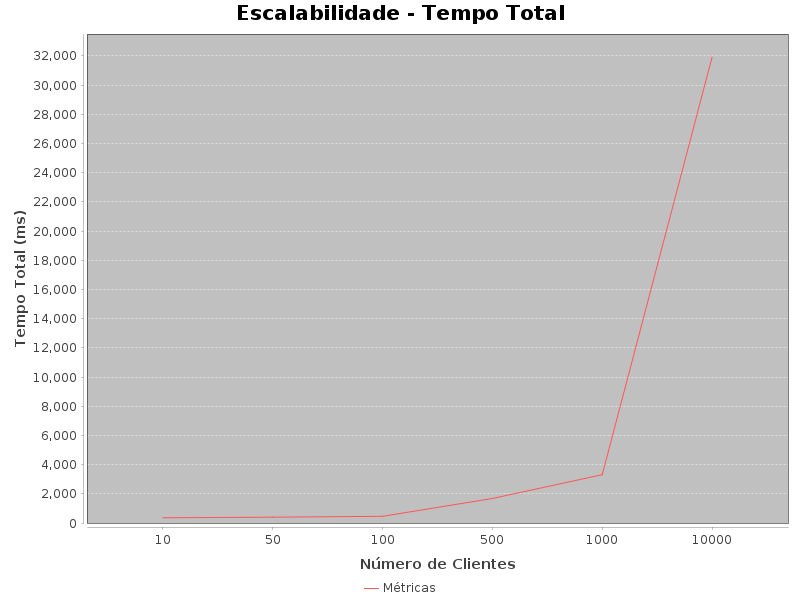
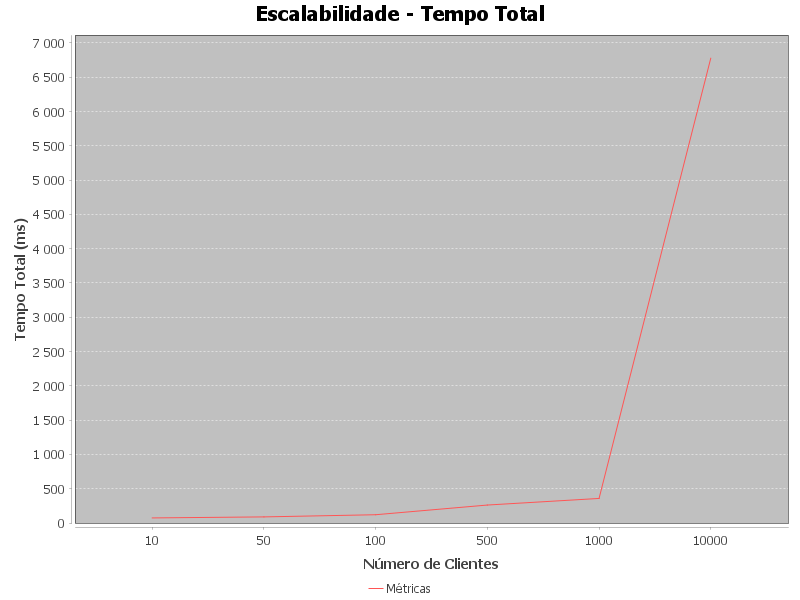
thread pool problems fixed, rejection policy working

diff --git a/src/main/java/server/Server.java b/src/main/java/server/Server.java
@@ -29,11 +29,12 @@ public class Server {
                     MAX_CLIENTS,                                // Core pool size (reusable threads)
                     (int) (MAX_CLIENTS+(MAX_CLIENTS*0.5)),      // Maximum pool size (core size + extra)
                     5L, TimeUnit.SECONDS,         // Keep-alive time for idle threads
-                    new LinkedBlockingQueue<>(),                // Unbounded task queue
+                    new SynchronousQueue<>(),               // basically a queue with capacity 0, direct to rejetction
                     Executors.defaultThreadFactory(),           // Default thread factory
-                    new ThreadPoolExecutor.AbortPolicy() {      // Custom rejection policy
+                    new RejectedExecutionHandler() {             // Custom rejection policy
                         @Override
                         public void rejectedExecution(Runnable r, ThreadPoolExecutor executor) {
+                            // Handle the rejected task
                             new Thread(r).start();
                         }
                     }
@@ -44,11 +45,12 @@ public class Server {
                     MAX_CLIENTS * 2,                          // Core pool size
                     MAX_CLIENTS * 4,                          // Maximum pool size
                     5L, TimeUnit.SECONDS,       // Keep-alive time for extra threads
-                    new LinkedBlockingQueue<>(),              // Bounded queue for commands
+                    new SynchronousQueue<>(),            // basically a queue with capacity 0, direct to rejetction
                     Executors.defaultThreadFactory(),         // Default thread factory
-                    new ThreadPoolExecutor.AbortPolicy() {    // Custom rejection policy for commands
+                    new RejectedExecutionHandler() {
                         @Override
                         public void rejectedExecution(Runnable r, ThreadPoolExecutor executor) {
+                            // Handle the rejected task
                             new Thread(r).start();
                         }
                     }
@@ -70,36 +72,39 @@ public class Server {
             users = new UserManager(maxClients);
             data = new DataManager();
             serverSocket = new ServerSocket(PORT);
-    
-    
+
+
             clientThreadPool = new ThreadPoolExecutor(
-                    maxClients*2,
-                    (int) (maxClients*2),
+                    maxClients * 2,
+                    maxClients * 2,
                     5L, TimeUnit.SECONDS,
-                    new LinkedBlockingQueue<>(),
+                    new SynchronousQueue<>(),
                     Executors.defaultThreadFactory(),
-                    new ThreadPoolExecutor.AbortPolicy() {
+                    new RejectedExecutionHandler() {
                         @Override
                         public void rejectedExecution(Runnable r, ThreadPoolExecutor executor) {
+                            // Handle the rejected task
                             new Thread(r).start();
                         }
                     }
             );
-    
+
             commandThreadPool = new ThreadPoolExecutor(
                     maxClients * 2,
                     maxClients * 4,
                     5L, TimeUnit.SECONDS,
-                    new LinkedBlockingQueue<>(),
+                    new SynchronousQueue<>(),
                     Executors.defaultThreadFactory(),
-                    new ThreadPoolExecutor.AbortPolicy() {
+                    new RejectedExecutionHandler() {
                         @Override
                         public void rejectedExecution(Runnable r, ThreadPoolExecutor executor) {
+                            // Handle the rejected task
                             new Thread(r).start();
                         }
                     }
             );
-    
+
+
             clientThreadPool.prestartAllCoreThreads();
             commandThreadPool.prestartAllCoreThreads();
             System.out.println("Server waiting for clients on port " + PORT + "...");
